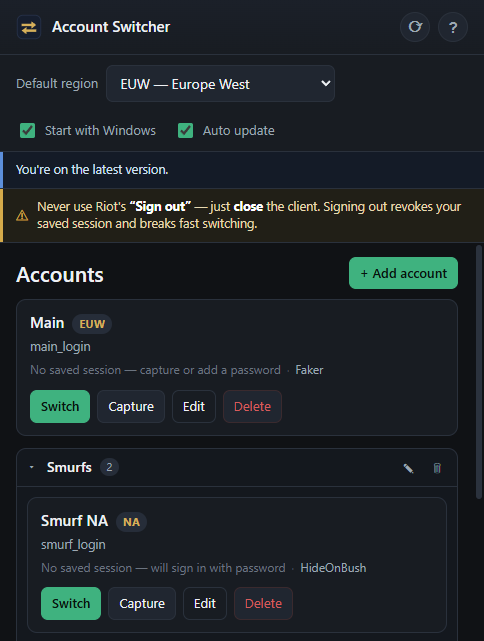
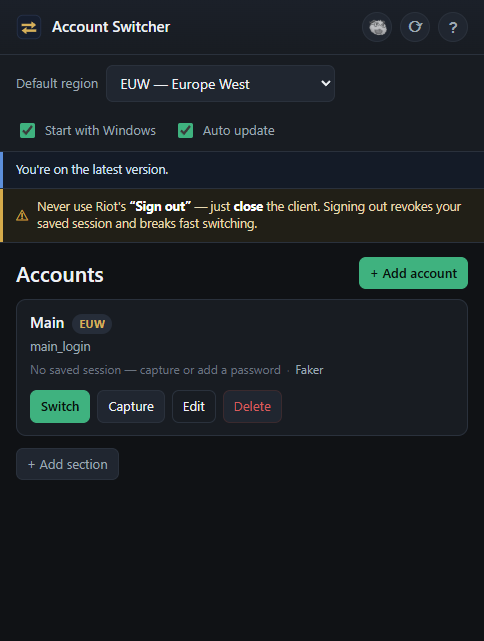
Add Porofessor button (opens current account's live game)
- Topbar Porofessor button next to Check for updates; opens the signed-in
  account's live game on porofessor.gg in the default browser (shell.openExternal).
- Ports the original behaviour: Riot ID + region from the LCU
  (/lol-summoner/v1/current-summoner, /riotclient/region-locale), falling back
  to the current account's region; shows a friendly error if League isn't running.
- Monochrome icon derived from Porofessor's favicon (background removed +
  desaturated) via build/make-porofessor-icon.mjs -> src/renderer/porofessor.png.
- porofessor.js core + unit tests.

diff --git a/src/main/main.js b/src/main/main.js
@@ -17,6 +17,7 @@ import {
   resolveRiotClientServicesPath
 } from '../core/config.js';
 import { defaultLayout, normalizeLayout, reconcileLayout } from '../core/layout.js';
+import { buildPorofessorLiveUrl, resolvePorofessorRegion } from '../core/porofessor.js';
 import { DEFAULT_LEAGUE_PATH } from '../core/constants.js';
 import { loadSettings, saveSettings } from '../core/settings.js';
 import { REGIONS } from '../core/regions.js';
@@ -475,6 +476,38 @@ ipcMain.handle('regions:list', () => REGIONS);
 ipcMain.handle('help:open', () => {
   openHelpWindow();
   return true;
+});
+
+// Open the live game of the account currently signed in to League on Porofessor (Riot ID + region
+// come from the LCU). Returns { error } if League isn't running / signed in.
+async function buildCurrentPorofessorUrl() {
+  let summoner;
+  try {
+    summoner = await lcu.get('/lol-summoner/v1/current-summoner');
+  } catch {
+    throw new Error('League is not running. Start and sign in to League first.');
+  }
+  const regionLocale = await lcu.get('/riotclient/region-locale').catch(() => null);
+  const current = manager.listAccounts().find((account) => account.isCurrent);
+  const region = resolvePorofessorRegion({
+    webRegion: regionLocale?.webRegion,
+    region: regionLocale?.region || current?.region
+  });
+  return buildPorofessorLiveUrl({
+    gameName: String(summoner?.gameName || '').trim(),
+    tagLine: String(summoner?.tagLine || '').trim(),
+    region
+  });
+}
+
+ipcMain.handle('porofessor:open', async () => {
+  try {
+    const url = await buildCurrentPorofessorUrl();
+    shell.openExternal(url);
+    return { ok: true, url };
+  } catch (error) {
+    return { error: error.message };
+  }
 });
 
 ipcMain.handle('app:openExternal', (_event, url) => {

diff --git a/src/core/porofessor.js b/src/core/porofessor.js
@@ -1,0 +1,27 @@
+// Porofessor (and op.gg) address regions by the LCU's webRegion code (euw, na, eune, …). Older
+// clients may only expose the platform id, so map the common ones as a fallback.
+const POROFESSOR_REGION_FALLBACK = {
+  na1: 'na', euw1: 'euw', eun1: 'eune', kr: 'kr', br1: 'br', la1: 'lan', la2: 'las',
+  oc1: 'oce', ru: 'ru', tr1: 'tr', jp1: 'jp', ph2: 'ph', sg2: 'sg', th2: 'th', tw2: 'tw',
+  vn2: 'vn', me1: 'me'
+};
+
+export function resolvePorofessorRegion({ webRegion, region } = {}) {
+  const web = String(webRegion || '').trim().toLowerCase();
+  const raw = String(region || '').trim().toLowerCase();
+  return web || POROFESSOR_REGION_FALLBACK[raw] || raw;
+}
+
+// Build a Porofessor live-game URL from a Riot ID, e.g. https://porofessor.gg/live/euw/Nueluclor-1553
+export function buildPorofessorLiveUrl({ gameName, tagLine, region } = {}) {
+  const name = String(gameName || '').trim();
+  const tag = String(tagLine || '').trim();
+  const reg = String(region || '').trim().toLowerCase();
+  if (!name || !tag) {
+    throw new Error('No Riot ID found for the signed-in account. Make sure League is signed in.');
+  }
+  if (!reg) {
+    throw new Error('Could not determine the account region from the League client.');
+  }
+  return `https://porofessor.gg/live/${reg}/${encodeURIComponent(name)}-${encodeURIComponent(tag)}`;
+}

diff --git a/test/porofessor.test.js b/test/porofessor.test.js
@@ -1,0 +1,19 @@
+import test from 'node:test';
+import assert from 'node:assert/strict';
+import { buildPorofessorLiveUrl, resolvePorofessorRegion } from '../src/core/porofessor.js';
+
+test('resolvePorofessorRegion prefers webRegion, then platform-id fallback, then raw', () => {
+  assert.equal(resolvePorofessorRegion({ webRegion: 'EUW' }), 'euw');
+  assert.equal(resolvePorofessorRegion({ region: 'euw1' }), 'euw'); // platform id -> web code
+  assert.equal(resolvePorofessorRegion({ region: 'euw' }), 'euw');
+  assert.equal(resolvePorofessorRegion({}), '');
+});
+
+test('buildPorofessorLiveUrl builds a live URL and encodes the Riot ID', () => {
+  assert.equal(
+    buildPorofessorLiveUrl({ gameName: 'Hide on bush', tagLine: 'KR1', region: 'kr' }),
+    'https://porofessor.gg/live/kr/Hide%20on%20bush-KR1'
+  );
+  assert.throws(() => buildPorofessorLiveUrl({ gameName: '', tagLine: 'x', region: 'euw' }), /Riot ID/);
+  assert.throws(() => buildPorofessorLiveUrl({ gameName: 'A', tagLine: 'B', region: '' }), /region/);
+});

diff --git a/src/renderer/styles.css b/src/renderer/styles.css
@@ -61,6 +61,12 @@ a { color: var(--blue); }
 }
 .icon-btn:hover { color: var(--text); border-color: var(--gold); }
 .topbar-actions { display: flex; align-items: center; gap: 8px; }
+.porofessor-icon {
+  width: 18px; height: 18px;
+  background: center / contain no-repeat url(porofessor.png);
+  opacity: 0.78;
+}
+.icon-btn:hover .porofessor-icon { opacity: 1; }
 
 /* ---- Settings strip ---- */
 .settings-strip {

diff --git a/src/renderer/app.js b/src/renderer/app.js
@@ -597,6 +597,10 @@ function resolveName(value) {
 function wireEvents() {
   $('addBtn').addEventListener('click', () => openForm());
   $('helpBtn').addEventListener('click', () => api.openHelp());
+  $('porofessorBtn').addEventListener('click', async () => {
+    const result = await api.openPorofessor();
+    if (result && result.error) showMessage('Porofessor', escapeHtml(result.error));
+  });
   $('emptyHelp').addEventListener('click', (e) => { e.preventDefault(); api.openHelp(); });
 
   $('defaultRegion').addEventListener('change', (e) => onSettingChange({ defaultRegion: e.target.value }));

diff --git a/src/renderer/index.html b/src/renderer/index.html
@@ -18,6 +18,7 @@
       <span>Account Switcher</span>
     </div>
     <div class="topbar-actions">
+      <button id="porofessorBtn" class="icon-btn" title="Live game on Porofessor"><span class="porofessor-icon"></span></button>
       <button id="checkUpdateBtn" class="icon-btn" title="Check for updates">⟳</button>
       <button id="helpBtn" class="icon-btn" title="Help — how this works">?</button>
     </div>